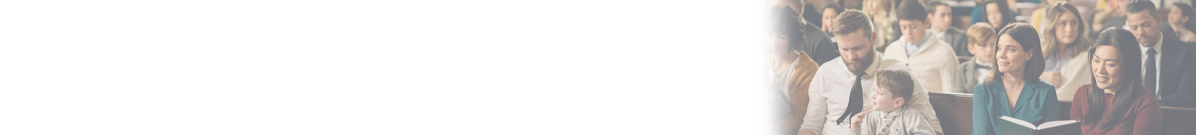
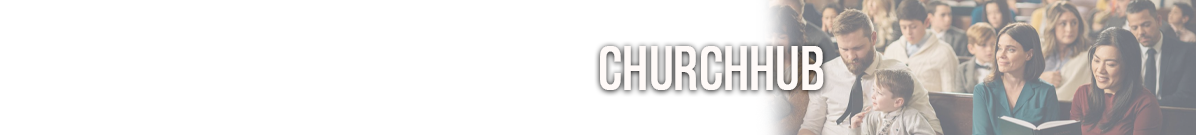
Enhanced UI and header section

Changed region(s): [[0.495, 0.3259, 0.7115, 0.7111]]

diff --git a/src/components/Header/index.tsx b/src/components/Header/index.tsx
@@ -1,18 +1,11 @@
-import { Button } from '../Button';
 import { ImageContainer } from '../ImageContainer';
 import logo from '../../assets/pibjColored.png';
 
 export function Header() {
 	return (
-		<div className="my-2 flex flex-row align-middle bg-slate-200 header-bg-img border rounded-lg">
-			<div className="basis-1/4 m-auto">
+		<div className="my-2 inline-flex flex-row align-middle bg-slate-200 header-bg-img border w-full">
+			<div className="float-left p-4">
 				<ImageContainer imageName={logo} />
-			</div>
-			<div className="basis-2/4 m-auto">
-				<h2 className="text-blue-900 text-4xl">ChurchHub</h2>
-			</div>
-			<div className="basis-1/6 m-auto float-right">
-				<Button btnTextContent="About ChurchHub" />
 			</div>
 		</div>
 	);

diff --git a/src/components/ImageContainer/index.tsx b/src/components/ImageContainer/index.tsx
@@ -4,7 +4,7 @@ export type TImageContainerProps = {
 export function ImageContainer({ imageName = '' }: TImageContainerProps) {
 	return (
 		<img
-			className="h-auto max-w-full"
+			className="h-auto w-60"
 			src={imageName}
 			alt="image description"
 		/>

diff --git a/src/components/Table/index.tsx b/src/components/Table/index.tsx
@@ -9,10 +9,6 @@ import {
 	flexRender,
 } from '@tanstack/react-table';
 import { TableData } from '../../MockData/Types';
-
-
-	// data: TableData[];
-	// columns: ColumnDef<TableData>[];
 function Filter({
 	column,
 }: {
